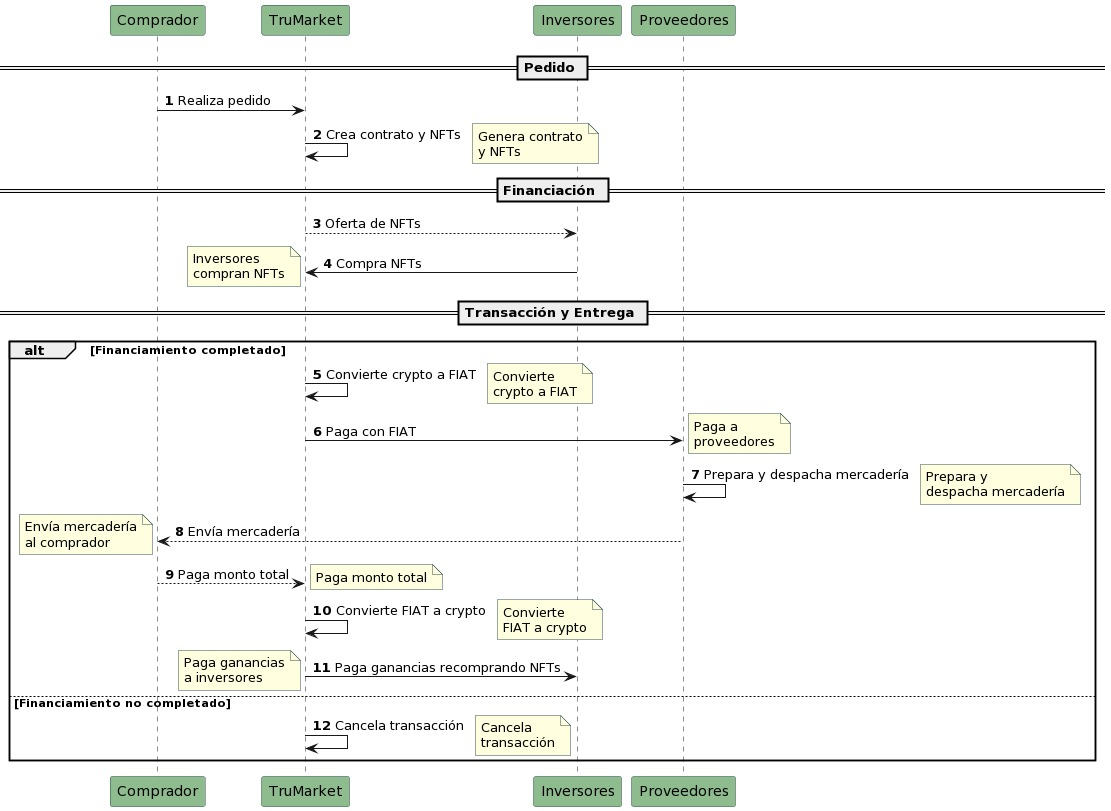
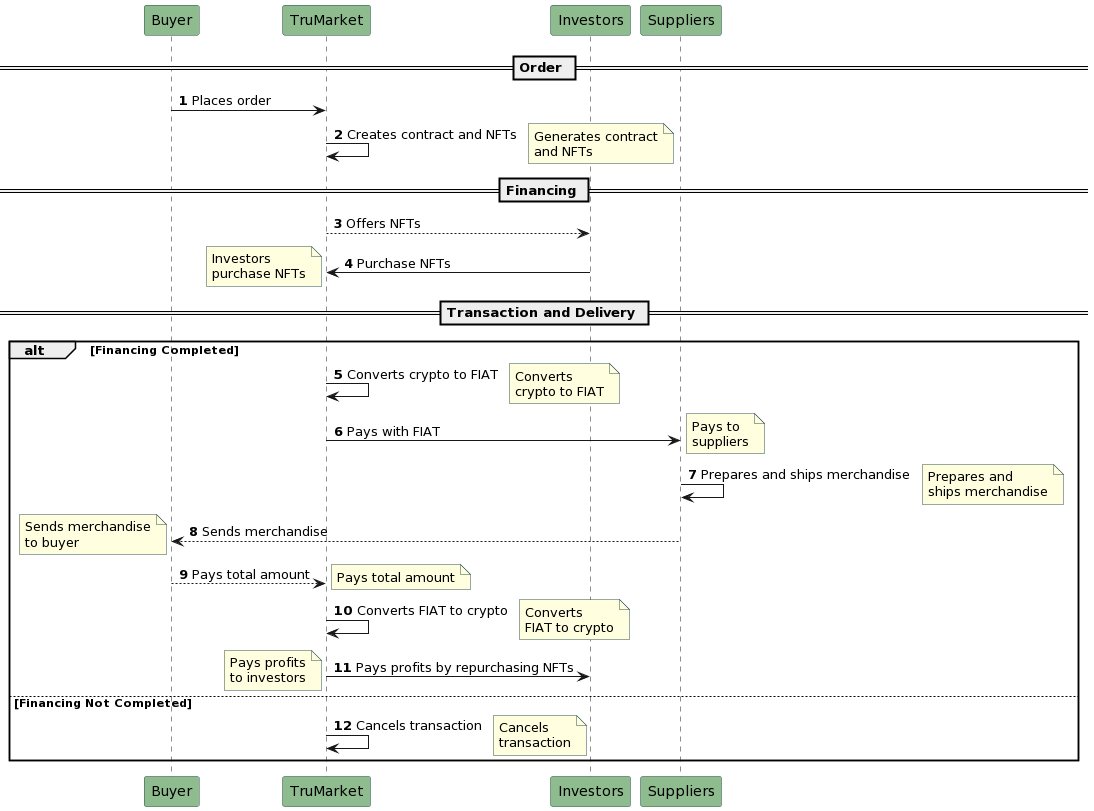
ChangesF

diff --git a/README.md b/README.md
@@ -79,11 +79,9 @@ This contract is ERC1155 and offers several features and functions.
 
 ![Alt text](image.png)
 
-
 ### Sequence Diagram: TruMarket Transaction Flow
 
-```plantuml
-@startuml
+```@startuml
 
 skinparam participant {
     BackgroundColor DarkSeaGreen
@@ -95,48 +93,48 @@ skinparam note {
     BorderColor DarkSlateGray
 }
 
-participant Comprador
+participant Buyer
 participant "TruMarket" as TruMarket
-participant Inversores
-participant Proveedores
+participant Investors
+participant Suppliers
 
 autonumber
 
-== Pedido ==
+== Order ==
 
-Comprador -> TruMarket: Realiza pedido
-TruMarket -> TruMarket: Crea contrato y NFTs
-note right: Genera contrato\ny NFTs
+Buyer -> TruMarket: Places order
+TruMarket -> TruMarket: Creates contract and NFTs
+note right: Generates contract\nand NFTs
 
-== Financiación ==
+== Financing ==
 
-TruMarket --> Inversores: Oferta de NFTs
-Inversores -> TruMarket: Compra NFTs
-note left: Inversores\ncompran NFTs
+TruMarket --> Investors: Offers NFTs
+Investors -> TruMarket: Purchase NFTs
+note left: Investors\npurchase NFTs
 
-== Transacción y Entrega ==
+== Transaction and Delivery ==
 
-alt Financiamiento completado
-    TruMarket -> TruMarket: Convierte crypto a FIAT
-    note right: Convierte\ncrypto a FIAT
-    TruMarket -> Proveedores: Paga con FIAT
-    note right: Paga a\nproveedores
-    Proveedores -> Proveedores: Prepara y despacha mercadería
-    note right: Prepara y\ndespacha mercadería
-    Proveedores --> Comprador: Envía mercadería
-    note left: Envía mercadería\nal comprador
-    Comprador --> TruMarket: Paga monto total
-    note right: Paga monto total
-    TruMarket -> TruMarket: Convierte FIAT a crypto
-    note right: Convierte\nFIAT a crypto
-    TruMarket -> Inversores: Paga ganancias recomprando NFTs
-    note left: Paga ganancias\na inversores
-else Financiamiento no completado
-    TruMarket -> TruMarket: Cancela transacción
-    note right: Cancela\ntransacción
+alt Financing Completed
+    TruMarket -> TruMarket: Converts crypto to FIAT
+    note right: Converts\ncrypto to FIAT
+    TruMarket -> Suppliers: Pays with FIAT
+    note right: Pays to\nsuppliers
+    Suppliers -> Suppliers: Prepares and ships merchandise
+    note right: Prepares and\nships merchandise
+    Suppliers --> Buyer: Sends merchandise
+    note left: Sends merchandise\nto buyer
+    Buyer --> TruMarket: Pays total amount
+    note right: Pays total amount
+    TruMarket -> TruMarket: Converts FIAT to crypto
+    note right: Converts\nFIAT to crypto
+    TruMarket -> Investors: Pays profits by repurchasing NFTs
+    note left: Pays profits\nto investors
+else Financing Not Completed
+    TruMarket -> TruMarket: Cancels transaction
+    note right: Cancels\ntransaction
 end
 
-@enduml 
+@enduml
 
 ``` 
 
